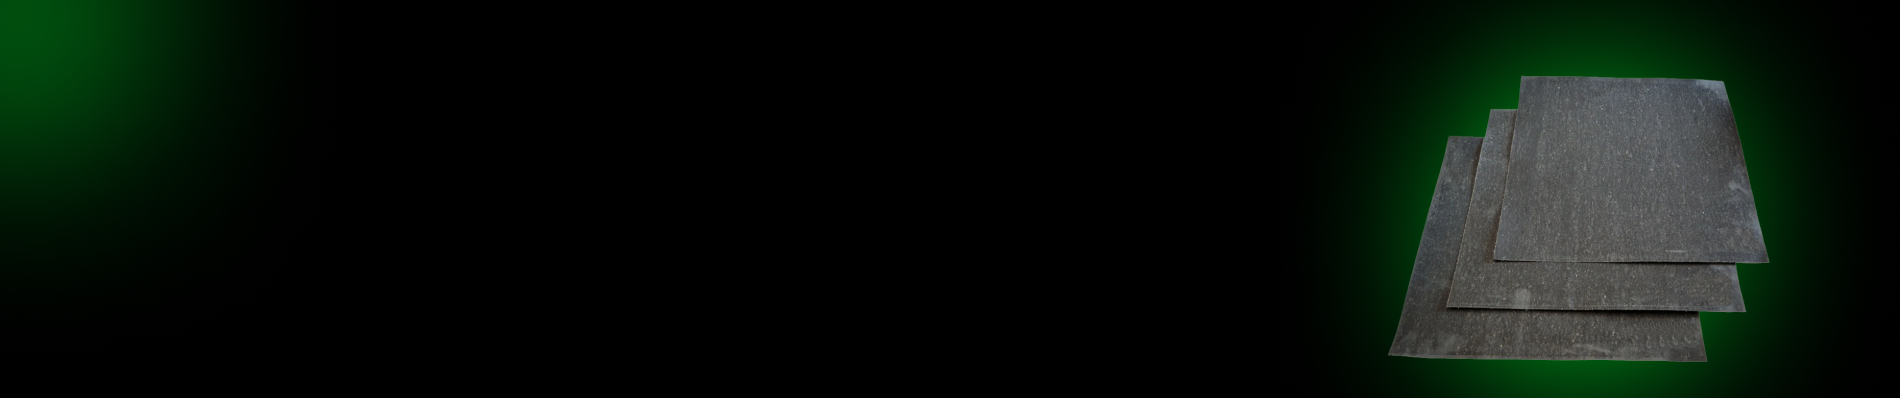
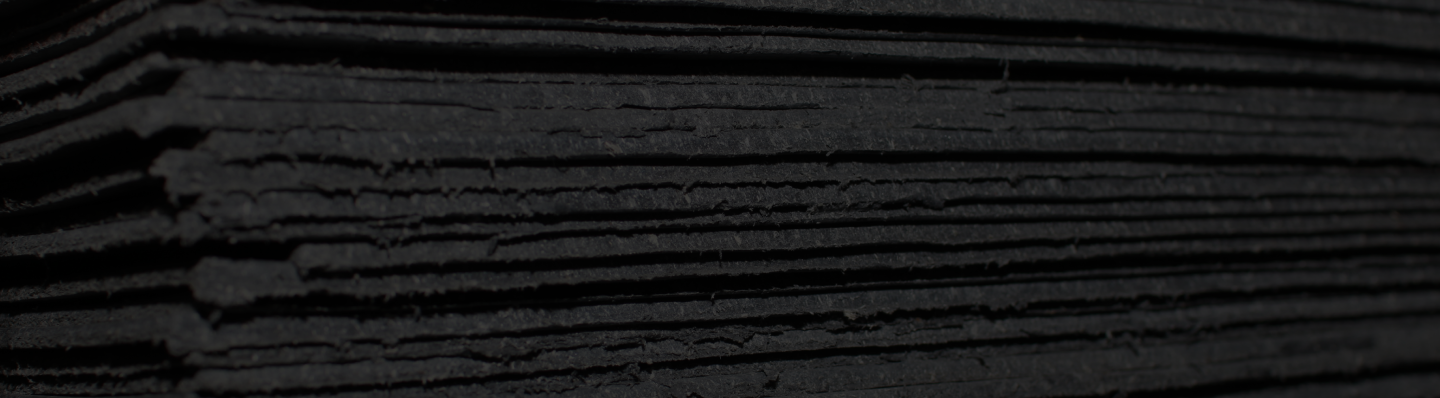
update

diff --git a/app/contacts/page.tsx b/app/contacts/page.tsx
@@ -1,0 +1,56 @@
+import Bread from '@/components/Bread'
+import Layout from '@/components/Layout'
+import Link from 'next/link'
+import React from 'react'
+import styles from "./style.module.css"
+
+const Contacts = () => {
+    const bread = [
+        { link: "/", name: "Главная" },
+        { link: "/contacts", name: "Контакты" },
+    ]
+
+    return (
+        <Layout>
+            <section className={styles.Section}>
+                <Bread array={bread} />
+                <h2>Контакты</h2>
+
+                <div className={styles.Box}>
+                    <div className={styles.InfoBox}>
+                        <div>
+                            <h3>Адрес</h3>
+                            <p>Офис: 603108, г. Нижний Новгород, ул. Кузбасская, д.1Ж, офис 405</p>
+                            <p>Склад: 603108, г. Нижний Новгород, ул. Кузбасская, 17В</p>
+                        </div>
+
+                        <div>
+                            <h3>Телефон</h3>
+                            <p><Link href={"tel:+78312833097"}>+7 (831) 283-30-97</Link>
+                                <br /><Link href={"tel:+79200592050"}>+7 (920) 059 20 50</Link></p>
+                        </div>
+
+                        <div>
+                            <h3>E-mail</h3>
+                            <p><Link href={"mailto:him-nnov@mail.ru"}>him-nnov@mail.ru</Link></p>
+                        </div>
+
+                        <div>
+                            <h3>Режим работы</h3>
+                            <p>Пн-Пт: 9-17 <br />Сб-Вс: выходной</p>
+                        </div>
+                    </div>
+
+                    <div className={styles.Map} style={{ position: "relative", overflow: "hidden" }}>
+                        <a href="https://yandex.ru/maps?utm_medium=mapframe&utm_source=maps" style={{ color: "#eee", fontSize: 12, position: "absolute", top: 0 }}>Яндекс Карты</a>
+                        <a href="https://yandex.ru/maps/?ll=88.048767%2C59.277244&utm_medium=mapframe&utm_source=maps&z=3.13" style={{ color: "#eee", fontSize: 12, position: "absolute", top: 14 }}>Яндекс Карты</a>
+                        <iframe src="https://yandex.ru/map-widget/v1/?ll=88.048767%2C59.277244&z=3.13" width="560" height="400" style={{ position: "relative" }}>
+                        </iframe>
+                    </div>
+                </div>
+            </section>
+        </Layout>
+    )
+}
+
+export default Contacts

diff --git a/components/Slider/index.tsx b/components/Slider/index.tsx
@@ -3,12 +3,36 @@
 import ButtonDefault from "@/ui/Buttons/Default"
 import styles from "./style.module.css"
 import { useRouter } from "next/navigation"
+import { useEffect, useState } from "react"
 
 const Slider = () => {
     const router = useRouter()
+    const [slide, setSlide] = useState(0)
+
+    function fillControlls() {
+        let result = []
+
+        for (let i = 0; i < 5; i++) {
+            result.push(
+                <div key={i} className={i === slide ? styles.Active : ""} onClick={() => setSlide(i)}></div>
+            )
+        }
+
+        return result
+    }
+
+    useEffect(() => {
+        setTimeout(() => {
+            if (slide === 4) {
+                setSlide(0)
+            } else {
+                setSlide(slide + 1)
+            }
+        }, 3000)
+    }, [slide])
 
     return (
-        <section className={styles.Slider}>
+        <section className={styles.Slider} style={{ background: `url("/Home_Slider_${slide}.png") no-repeat` }}>
             <div className={styles.Box}>
                 <h1>Паронит ПОН-Б 3мм (1500х1700)</h1>
                 <ul>
@@ -20,11 +44,7 @@ const Slider = () => {
             </div>
 
             <div className={styles.Controlls}>
-                <div></div>
-                <div></div>
-                <div></div>
-                <div></div>
-                <div></div>
+                {fillControlls()}
             </div>
         </section>
     )

diff --git a/components/Header/index.tsx b/components/Header/index.tsx
@@ -1,4 +1,4 @@
-'use client'
+"use client"
 
 import Logo from '@/assets/Logo'
 import styles from './style.module.css'
@@ -7,9 +7,11 @@ import { navigation } from './constants'
 import ButtonDefault from '@/ui/Buttons/Default'
 import { useRouter } from 'next/navigation'
 import Link from 'next/link'
+import useGlobalStore from '@/store'
 
 const Header = () => {
     const router = useRouter()
+    const changeSearch = useGlobalStore(state => state.changeSearch)
 
     return (
         <header className={styles.Header}>
@@ -27,13 +29,13 @@ const Header = () => {
                 <div className={styles.Phone}>
                     <PhoneIcon />
                     <div>
-                        <p>+7 (831) 283-30-97</p>
-                        <p>+7 (831) 283-30-98</p>
+                        <p><Link href="tel:+78312833097">+7 (831) 283-30-97</Link></p>
+                        <p><Link href="tel:+78312833098">+7 (831) 283-30-98</Link></p>
                     </div>
                 </div>
 
                 <div className={styles.Icons}>
-                    <SearchIcon />
+                    <SearchIcon onClick={() => changeSearch(true)} />
                     <BookmarkIcon />
                     <CartIcon onClick={() => router.push("/cart")} />
                 </div>

diff --git a/components/SearchBox/style.module.css b/components/SearchBox/style.module.css
@@ -1,0 +1,70 @@
+.SearchBox {
+    width: 100%;
+    height: 100vh;
+    position: fixed;
+    top: 0;
+    left: 0;
+    background: transparent;
+    transition: 0.5s;
+    z-index: -1;
+}
+
+.SearchBox.Active {
+    background: rgba(0, 0, 0, 0.7);
+    z-index: 100;
+}
+
+.Box {
+    width: 100%;
+    padding: 65px 0;
+    background: #F5F5F5;
+    display: flex;
+    align-items: center;
+    justify-content: center;
+    position: absolute;
+    top: -100%;
+    transition: 0.5s;
+}
+
+.SearchBox.Active .Box {
+    top: 0;
+}
+
+.Close {
+    color: #4E4E4E;
+    position: absolute;
+    top: 20px;
+    width: 16px;
+    height: 16px;
+    right: 20px;
+    cursor: pointer;
+}
+
+.Input {
+    max-width: 411px;
+    width: 100%;
+    background: rgba(255, 255, 255, 0.65);
+    border-radius: 4px;
+    height: 48px;
+    padding-right: 13px;
+    display: flex;
+    align-items: center;
+}
+
+.Input input {
+    height: 100%;
+    width: 100%;
+    padding: 0 13px;
+    border: none;
+    background: transparent;
+    font-size: 14px;
+    font-weight: 600;
+}
+
+.Input input::placeholder {
+    color: #BEBEBE;
+}
+
+.Input svg {
+    color: #BEBEBE;
+}

diff --git a/app/contacts/style.module.css b/app/contacts/style.module.css
@@ -1,0 +1,64 @@
+.Section {
+    max-width: 1200px;
+    width: 100%;
+    margin: 0 auto;
+    display: flex;
+    flex-direction: column;
+    gap: 24px;
+}
+
+.Section h2 {
+    font-size: 32px;
+    line-height: 140%;
+    font-weight: 600;
+    color: #4E4E4E;
+}
+
+.Map {
+    width: 100%;
+}
+
+.Map iframe {
+    width: 100% !important;
+    border-radius: 4px !important;
+    border: none !important;
+}
+
+.Box {
+    width: 100%;
+    display: flex;
+    align-items: flex-start;
+    gap: 80px;
+}
+
+.InfoBox {
+    max-width: 215px;
+    width: 100%;
+    display: flex;
+    flex-direction: column;
+    gap: 30px;
+}
+
+.InfoBox div {
+    display: flex;
+    flex-direction: column;
+    gap: 8px;
+}
+
+.InfoBox h3 {
+    color: #4E4E4E;
+    font-size: 16px;
+    font-weight: 600;
+    line-height: 22px;
+}
+
+.InfoBox p {
+    color: #4E4E4E;
+    font-size: 15px;
+    font-weight: 400;
+    line-height: 24px;
+}
+
+.InfoBox p a {
+    color: #00B302;
+}

diff --git a/components/SearchBox/index.tsx b/components/SearchBox/index.tsx
@@ -1,0 +1,25 @@
+"use client"
+
+import { CloseIcon, SearchIcon } from "@/ui/Icons"
+import styles from "./style.module.css"
+import useGlobalStore from "@/store"
+
+const SearchBox = () => {
+    const search = useGlobalStore(state => state.search)
+    const changeSearch = useGlobalStore(state => state.changeSearch)
+
+    return (
+        <div className={`${styles.SearchBox} ${search ? styles.Active : ""}`}>
+            <div className={styles.Box}>
+                <div className={styles.Input}>
+                    <input type="text" placeholder="Поиск" />
+                    <SearchIcon />
+                </div>
+
+                <CloseIcon className={styles.Close} onClick={() => changeSearch(false)} />
+            </div>
+        </div>
+    )
+}
+
+export default SearchBox

diff --git a/components/Slider/style.module.css b/components/Slider/style.module.css
@@ -4,12 +4,13 @@
     display: flex;
     justify-content: center;
     padding: 50px 15px 30px 15px;
-    background: url("/Home_Slider_1.png") no-repeat;
-    background-size: cover;
+    background-size: cover !important;
     background-position: center center;
     flex-direction: column;
     align-items: center;
     gap: 40px;
+    transition: 0.5s;
+    background: #000;
 }
 
 .Box {
@@ -51,8 +52,10 @@
     height: 12px;
     border-radius: 2px;
     background: #F5F5F5;
+    transition: 0.5s;
+    cursor: pointer;
 }
 
-.Controlls div:nth-child(1) {
+.Controlls div.Active {
     background: #00B302;
 }

diff --git a/components/Layout/index.tsx b/components/Layout/index.tsx
@@ -3,6 +3,7 @@
 import React, { FC } from 'react'
 import Header from '@/components/Header'
 import Footer from '@/components/Footer'
+import SearchBox from '@/components/SearchBox'
 
 interface Props {
     children: any
@@ -12,6 +13,7 @@ const Layout: FC<Props> = ({ children }) => {
     return (
         <>
             <Header />
+            <SearchBox />
             <main>{children}</main>
             <Footer />
         </>

diff --git a/app/_app.tsx b/app/_app.tsx
@@ -1,11 +1,7 @@
-import Footer from '@/components/Footer'
-import Header from '@/components/Header'
 import type { AppProps } from 'next/app'
 
 export default function MyApp({ Component, pageProps }: AppProps) {
     return <>
-        <Header />
         <Component {...pageProps} />
-        <Footer />
     </>
 }

diff --git a/store/index.ts b/store/index.ts
@@ -1,0 +1,11 @@
+import { create } from 'zustand'
+import { devtools } from 'zustand/middleware'
+import State from './types'
+
+const useGlobalStore = create<State>()(devtools((set) => ({
+    search: false,
+
+    changeSearch: (value: boolean) => set({ search: value }),
+})))
+
+export default useGlobalStore

diff --git a/ui/Item/style.module.css b/ui/Item/style.module.css
@@ -66,6 +66,8 @@
     gap: 10px;
     opacity: 0;
     transition: 0.5s;
+    max-height: 0;
+    overflow-y: hidden;
 }
 
 .Controlls button {
@@ -75,4 +77,5 @@
 
 .Item.Active .Controlls {
     opacity: 1;
+    max-height: 100px;
 }

diff --git a/components/Header/style.module.css b/components/Header/style.module.css
@@ -94,4 +94,9 @@
     display: flex;
     align-items: center;
     justify-content: flex-start;
+    transition: 0.5s;
+}
+
+.Navigation .Button:hover {
+    color: #00B302;
 }
